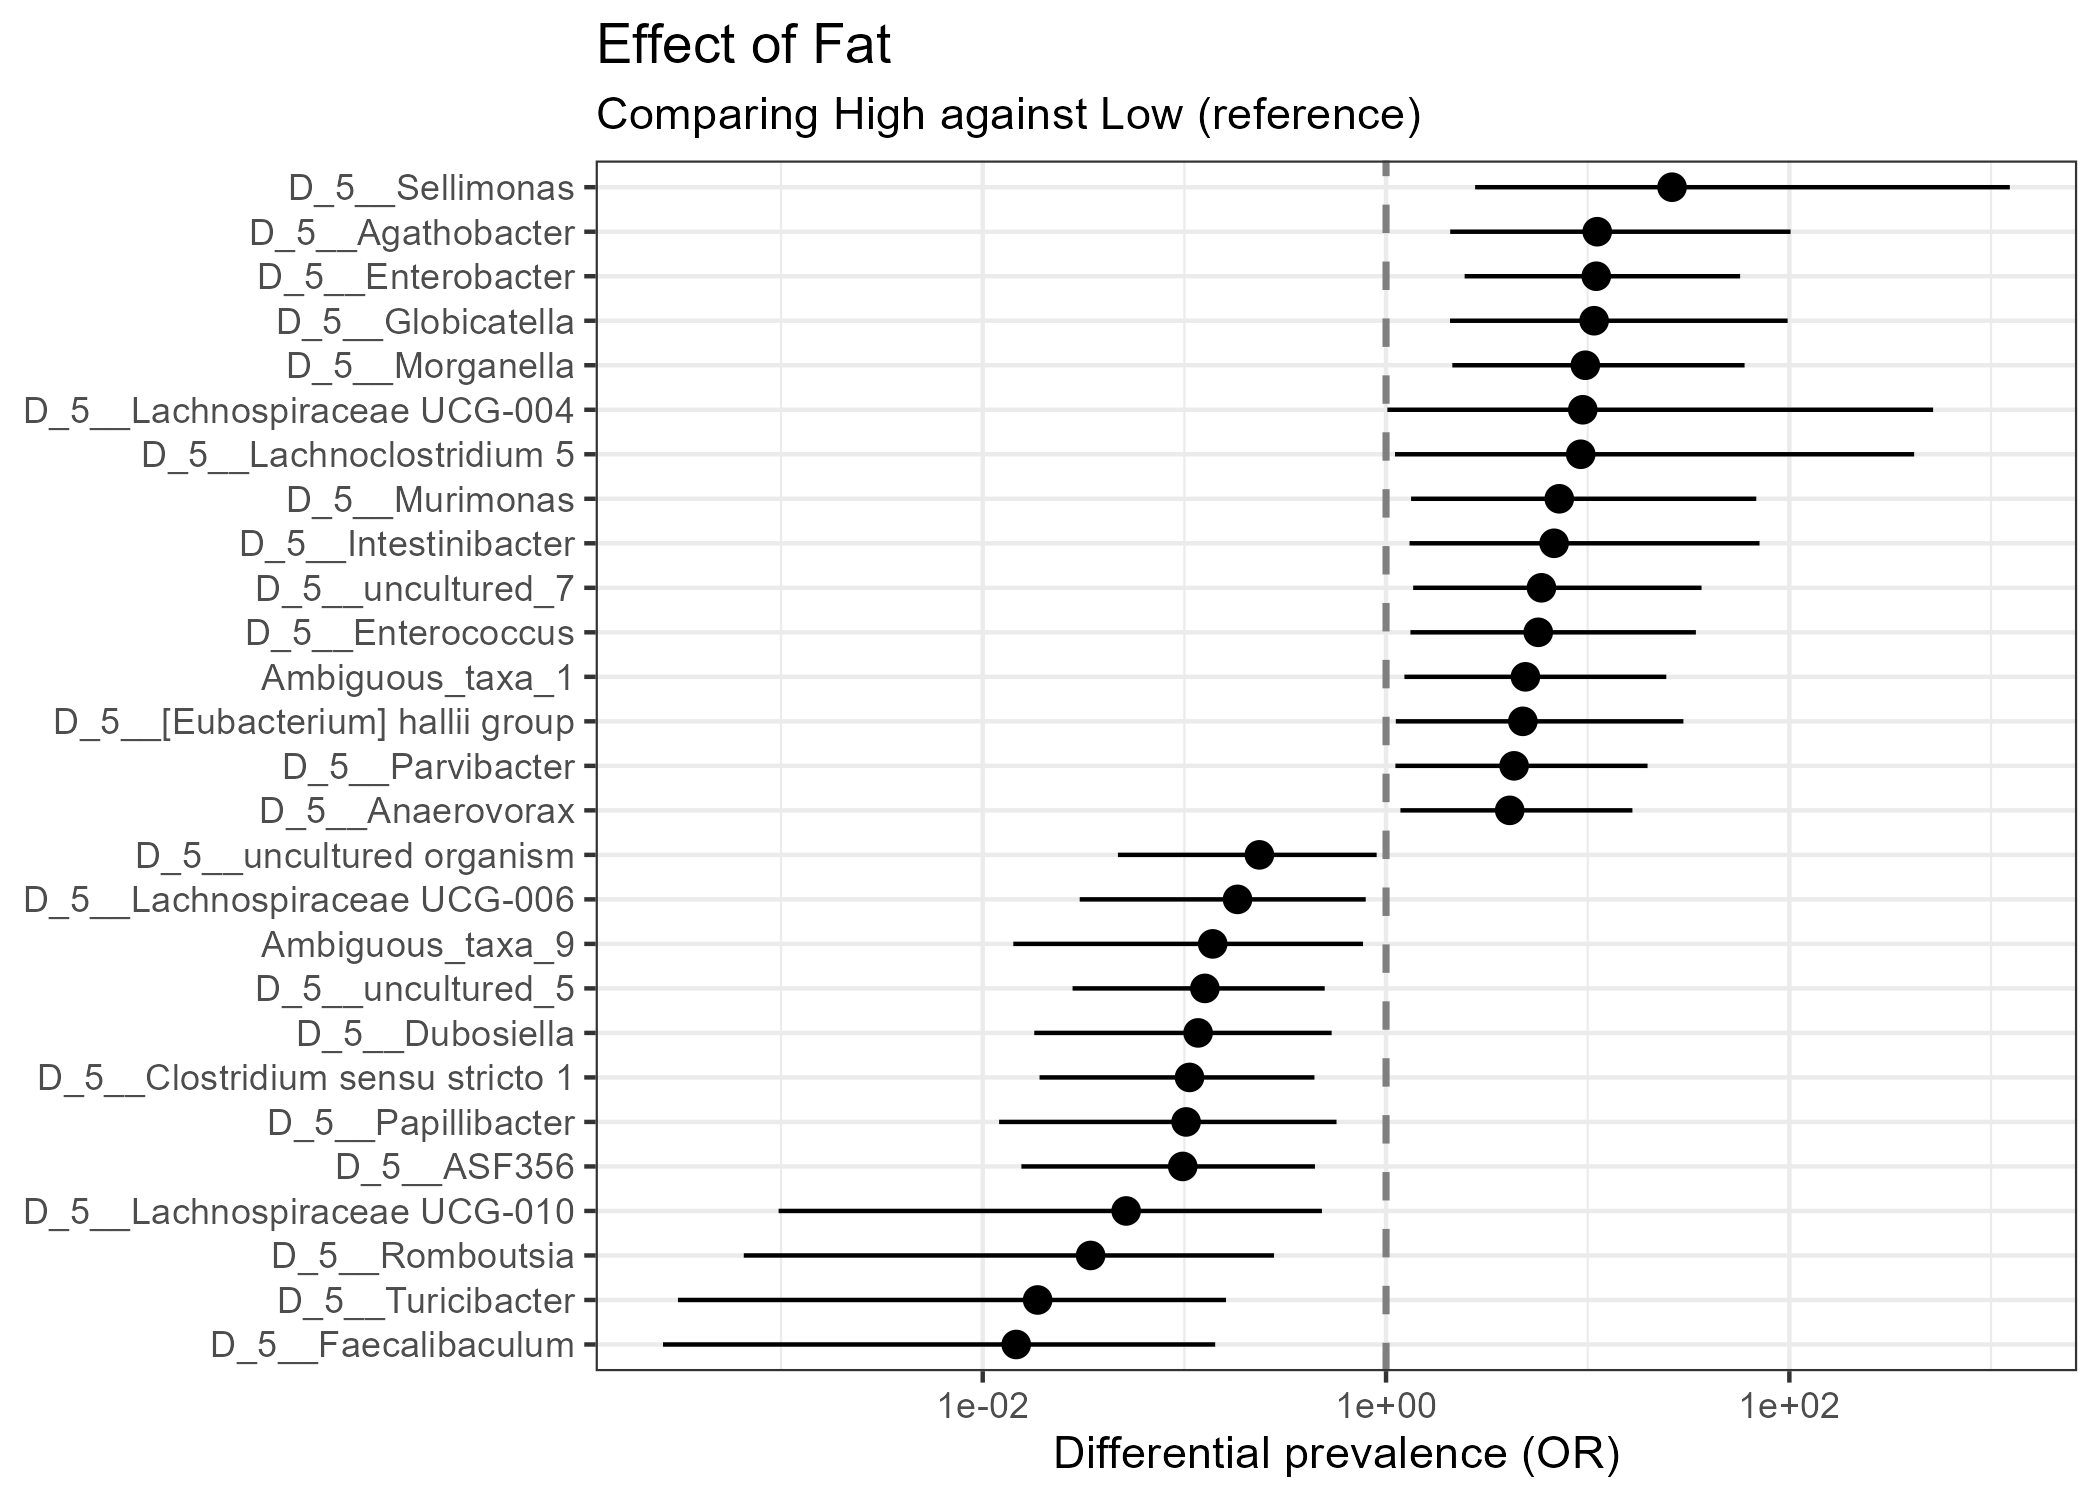
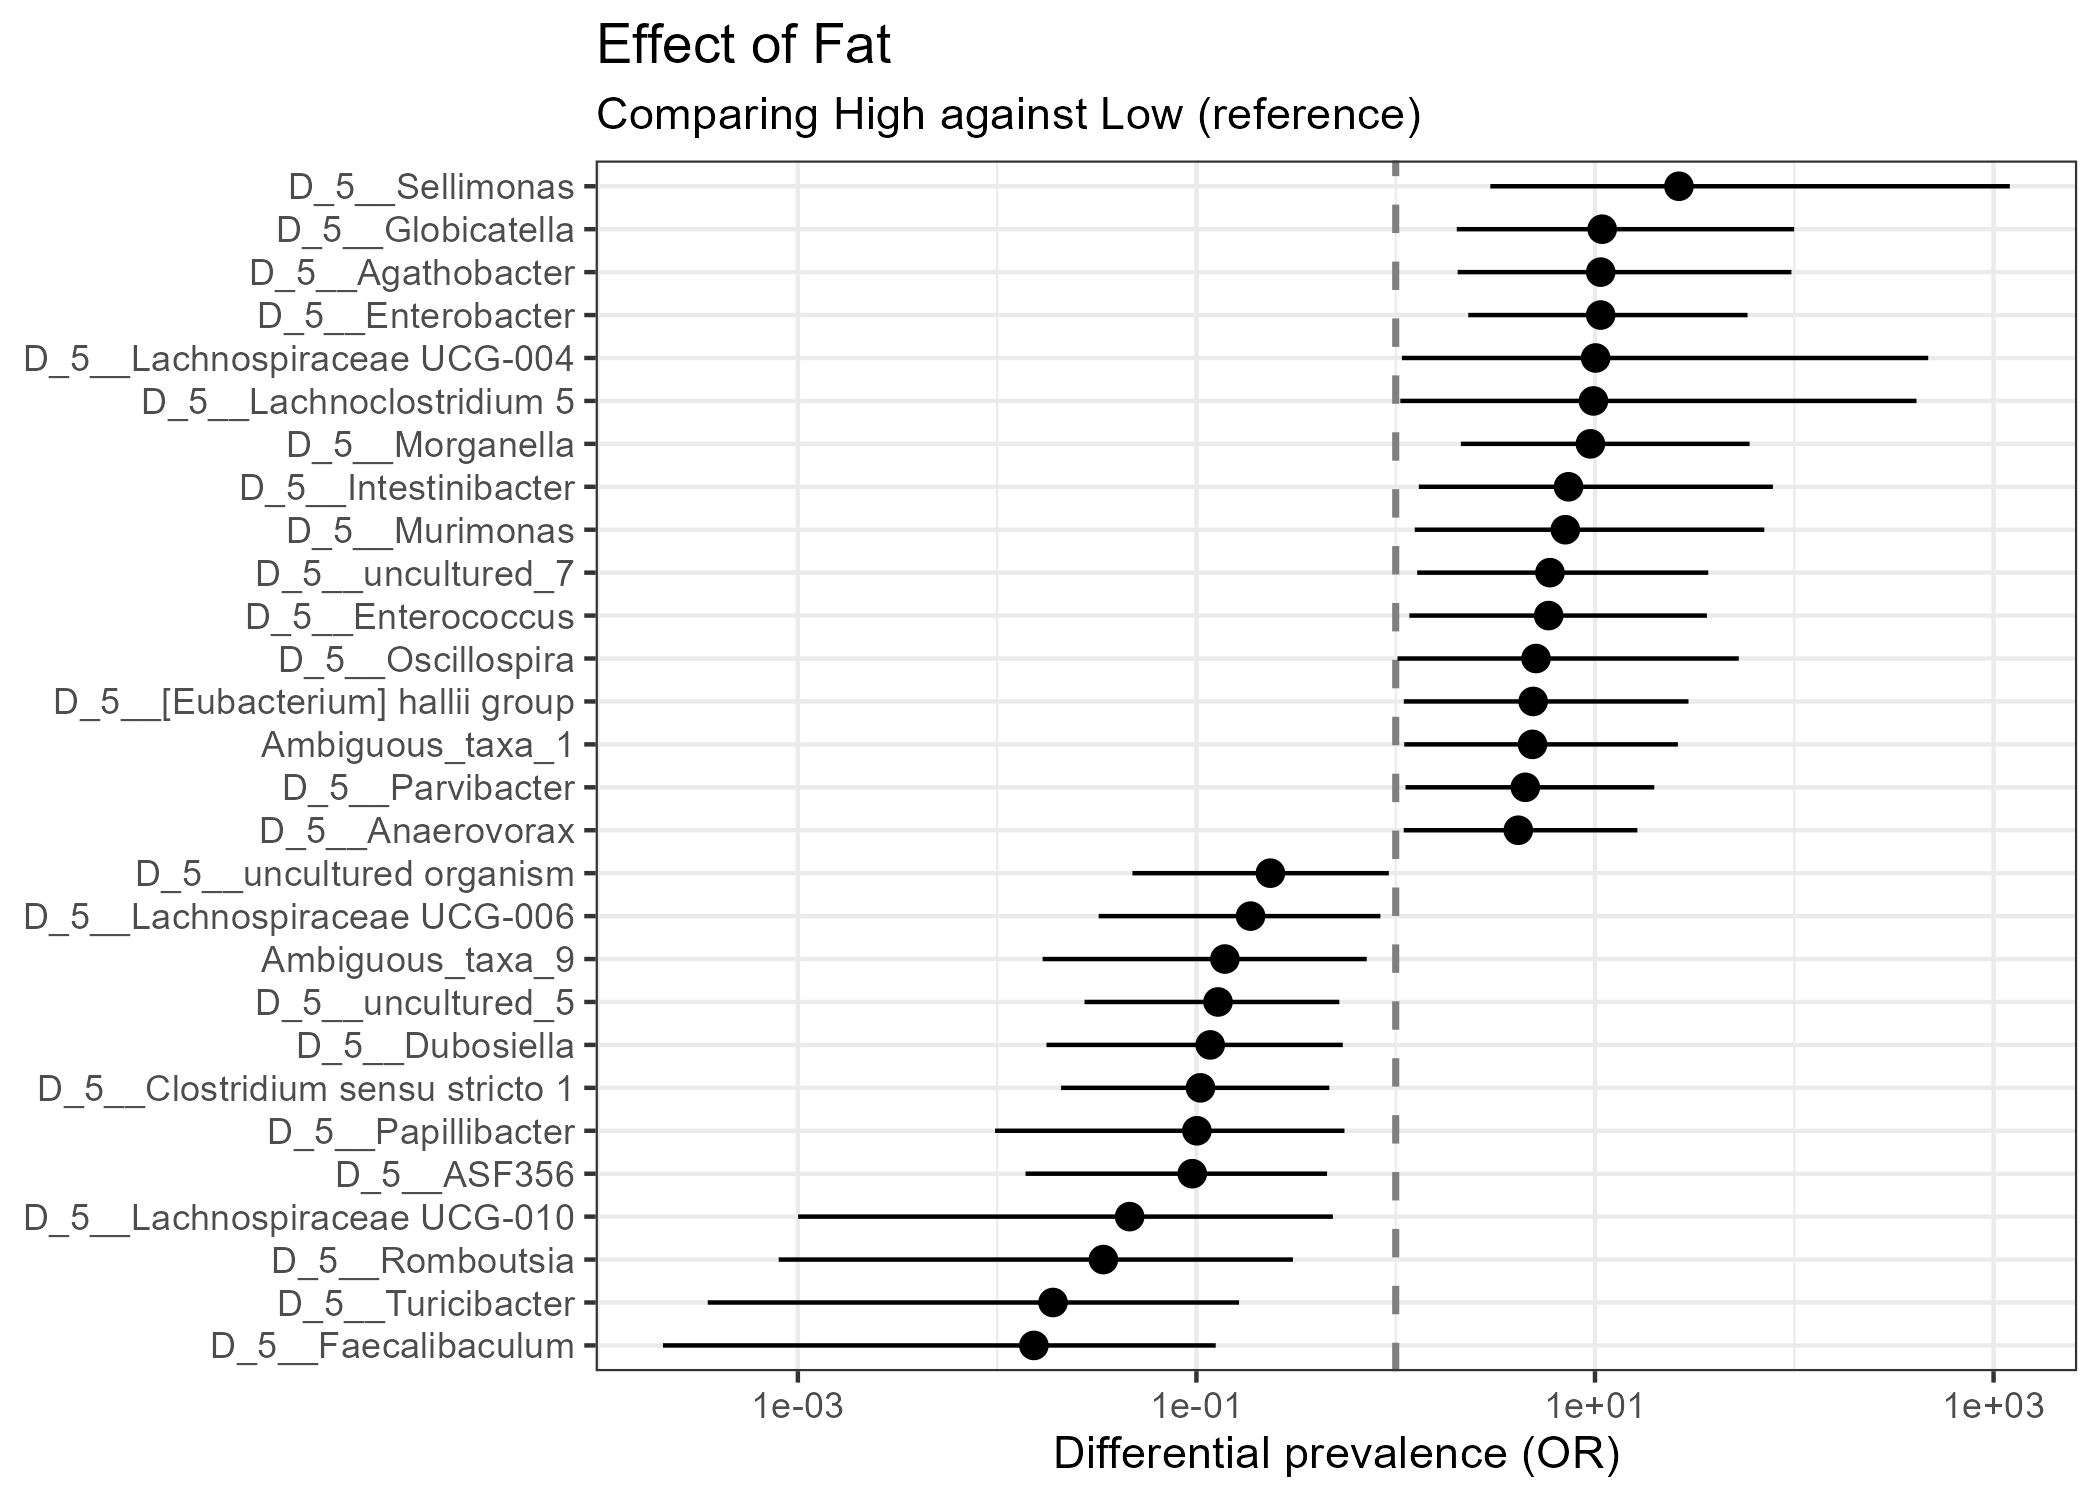
small updates

diff --git a/README.md b/README.md
@@ -82,7 +82,8 @@ data("tse_hintikka")
 fit <- dipper(
     tse = tse_hintikka,
     formula = ~ Fat + XOS,
-    assay.type = "counts"
+    assay.type = "counts",
+    niter = 400 # This needs to be increased in practice!
 )
 
 # Extract summarized results as a data.frame
@@ -113,14 +114,23 @@ library(DiPPER)
 
 # Load dataset, provided as a SummarizedExperiment object, and agglomerated to 
 # genus level.
-data("tse_vatanen")
+data("VatanenT_2016_subset")
 
 # The metadata includes variables subject_id (indicating infant), age (in
 # months), antibiotics (use of antibiotics: yes/no) and gender (male/female).
-tse_vatanen |>
+VatanenT_2016_subset |>
     SummarizedExperiment::colData() |>
-    as.data.frame() |>
     head()
+    
+## DataFrame with 6 rows and 4 columns
+##        subject_id antibiotics       age   gender
+##          <factor>    <factor> <numeric> <factor>
+## G80490    E002338         no    1.90554   female
+## G80538    E002338         no    4.00821   female
+## G80541    E002338         no    9.98768   female
+## G80498    E002473         no    1.37988   female
+## G80455    E002473         no    6.99795   female
+## G80621    E002681         yes   7.06366   female
 
 # Run DiPPER.
 # By putting age as the first variable of the formula it is automatically set as
@@ -133,12 +143,12 @@ tse_vatanen |>
 # assay.type = "relative_abundance". Moreover, as we cannot now control for the
 # sequencing depth, we must set read.depth = FALSE.
 fit2 <- dipper(
-    tse = tse_vatanen,
+    tse = VatanenT_2016_subset,
     formula = ~ age + antibiotics + gender + (1 | subject_id),
     assay.type = "relative_abundance",
     data.type = "relabundance",
     read.depth = FALSE,
-    iter.sampling = 500 # Set to a lower value to speed up the example
+    niter = 400 # This needs to be increased in practice!
 )
 
 # Extract the results for age 
